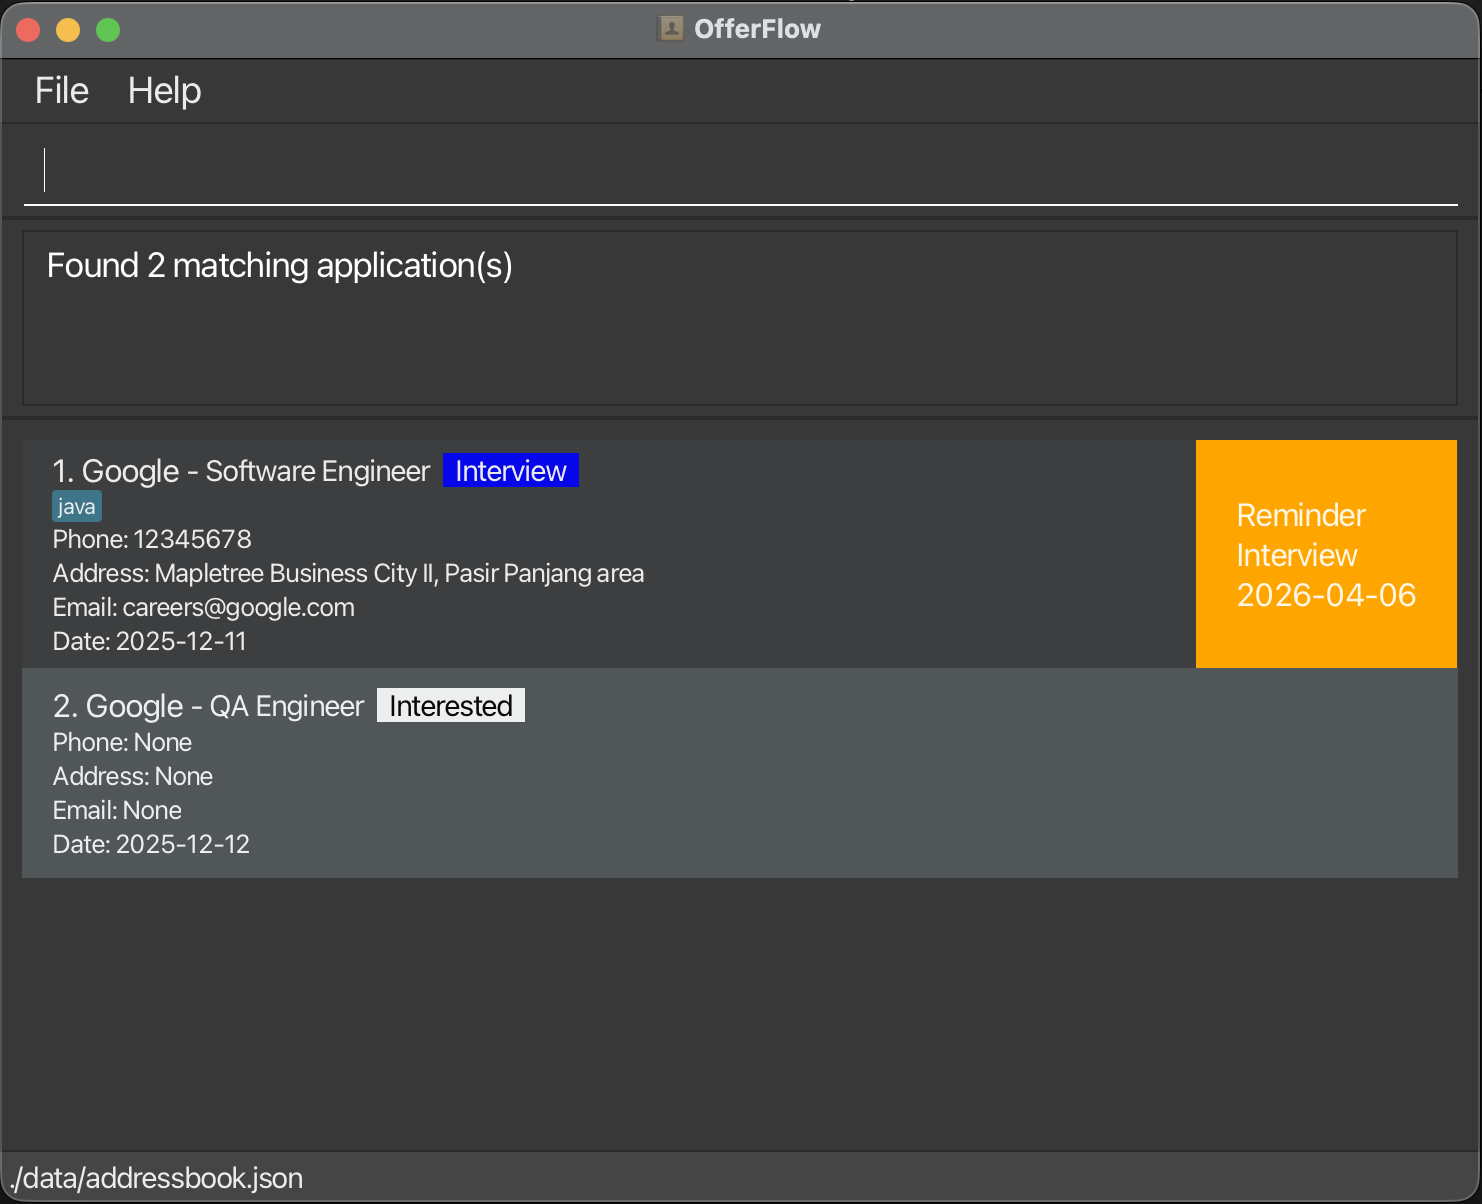
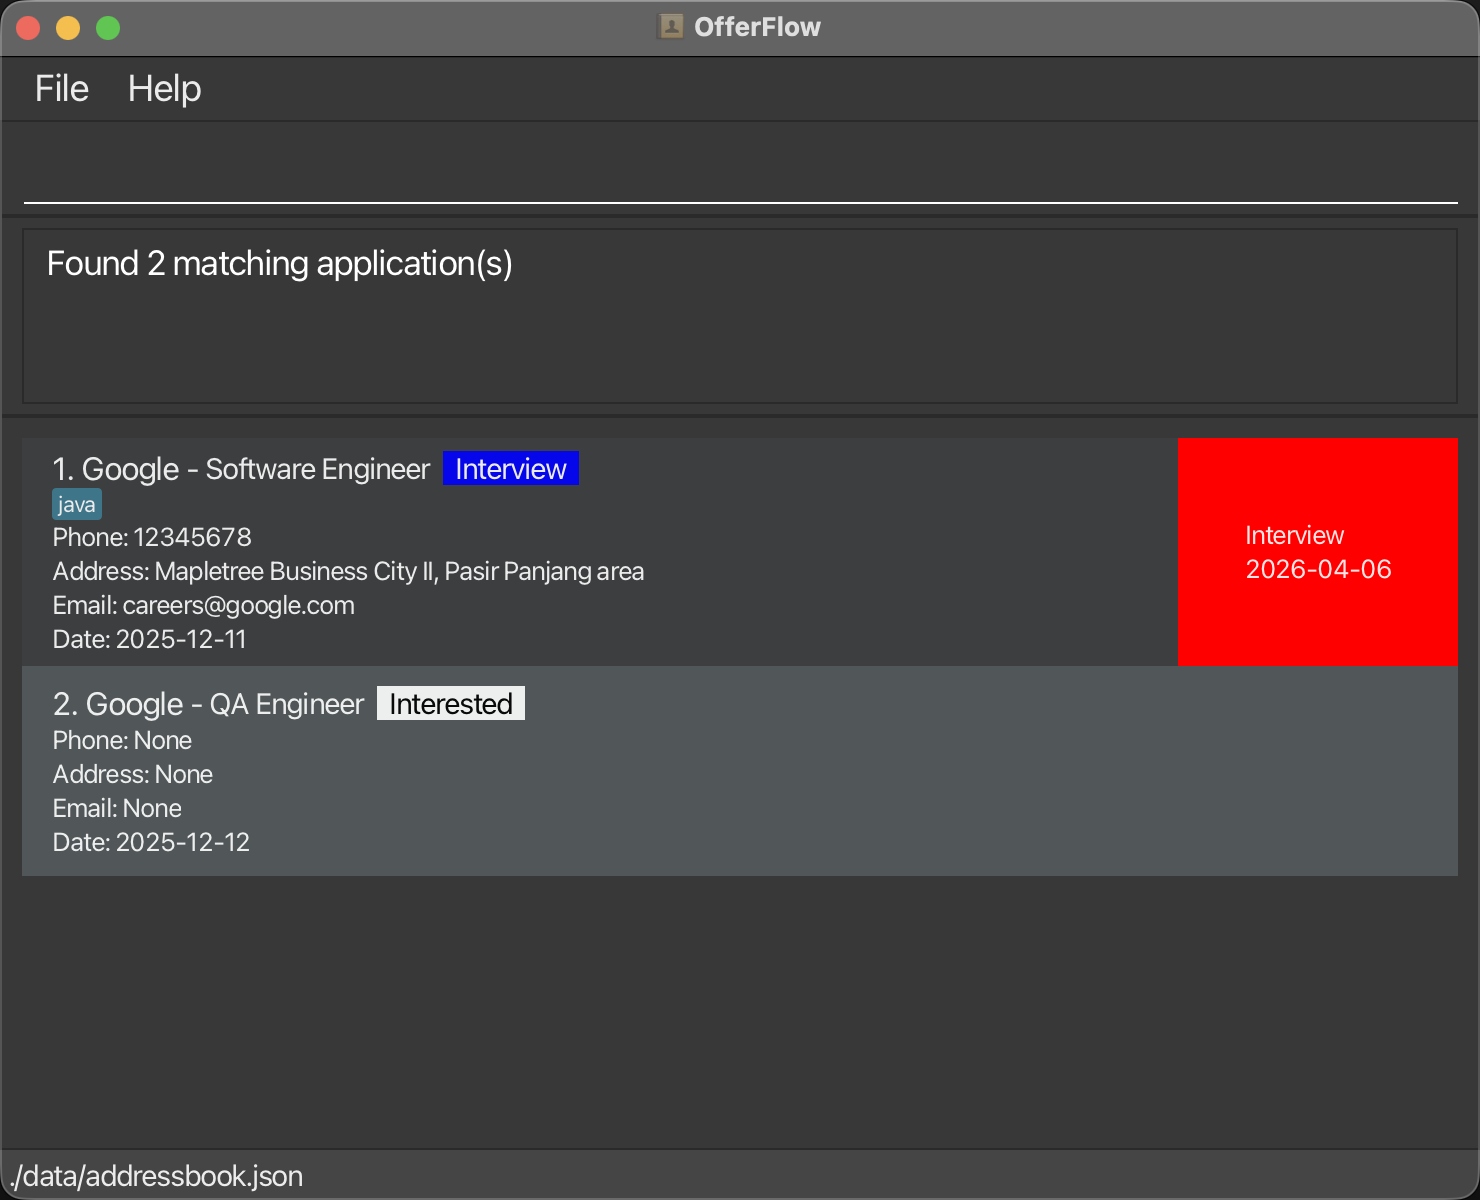
Update UG and pic

diff --git a/docs/UserGuide.md b/docs/UserGuide.md
@@ -25,7 +25,7 @@ If you can type fast, OfferFlow will manage your internship pipeline faster than
 
 ## Quick start
 
-1. Ensure you have Java `17` or above installed in your Computer.`<br>`
+1. Ensure you have Java `17` or above installed in your Computer.<br>
    **Mac users:** Ensure you have the precise JDK version prescribed [here](https://se-education.org/guides/tutorials/javaInstallationMac.html).
 
 1. Download the latest `.jar` file from [here](https://github.com/AY2526S2-CS2103T-F10-4/tp/releases).
@@ -36,7 +36,7 @@ If you can type fast, OfferFlow will manage your internship pipeline faster than
    A GUI similar to the below should appear in a few seconds. Note how the app contains some sample data.<br>
 
    ![Ui](images/Ui.png)
-5. Type the command in the command box and press Enter to execute it. e.g. typing **`help`** and pressing Enter will open the help window.`<br>`
+5. Type the command in the command box and press Enter to execute it. e.g. typing **`help`** and pressing Enter will open the help window.<br>
    Some example commands you can try:
 
    * `list` : Lists all internship applications.
@@ -52,20 +52,20 @@ If you can type fast, OfferFlow will manage your internship pipeline faster than
 
 <box type="info" seamless>
 
-**Notes about the command format:**`<br>`
+**Notes about the command format:**<br>
 
-* Words in `UPPER_CASE` are the parameters to be supplied by the user.`<br>`
+* Words in `UPPER_CASE` are the parameters to be supplied by the user.<br>
   e.g. in `add n/NAME`, `NAME` is a parameter which can be used as `add n/Google`.
-* Items in square brackets are optional.`<br>`
+* Items in square brackets are optional.<br>
   e.g `n/NAME [t/TAG]` can be used as `n/Google t/java` or as `n/Google`.
-* Items with `…` after them can be used multiple times including zero times.`<br>`
+* Items with `…` after them can be used multiple times including zero times.<br>
   e.g. `[t/TAG]…` can be used as ` ` (i.e. 0 times), `t/java`, `t/java t/React` etc.
-* Parameters can be in any order.`<br>`
+* Parameters can be in any order.`<br>
   e.g. if the command specifies `n/NAME p/PHONE_NUMBER`, `p/PHONE_NUMBER n/NAME` is also acceptable.
-* Extraneous parameters for commands that do not take in parameters (such as `help`, `list`, `exit`, `clear` and `overwrite`) will be ignored.`<br>`
+* Extraneous parameters for commands that do not take in parameters (such as `help`, `list`, `exit`, `clear` and `overwrite`) will be ignored.<br>
   e.g. if the command specifies `help 123`, it will be interpreted as `help`.
 * If you are using a PDF version of this document, be careful when copying and pasting commands that span multiple lines as space characters surrounding line-breaks may be omitted when copied over to the application.
-  `</box>`
+  </box>
 
 ### Viewing help : `help`
 
@@ -77,7 +77,7 @@ Format: `help`
 
 ### Application
 
-An internship application must include a company name and the role applied for. All other fields are optional.  
+An internship application must include a company name and the role applied for. All other fields are optional.
 Each application supports the following parameters:
 
 #### Parameters
@@ -98,14 +98,15 @@ Adds the internship application you have applied for, to help track all your app
 <box type="warning" seamless>
 
 **Caution:**
-OfferFlow does not allow duplicate application with same name and role. Hence, if you choose to add application with duplicate name and role, you can choose whether or not to [overwrite](#overwrite-duplicate-application--overwrite) it (ie: replace the pre-existing application with the new application)
+OfferFlow by default does not allow duplicate application with same name and role. Hence, if you choose to add application with duplicate name and role, you can choose whether or not to overwrite it (ie: replace the pre-existing application with the new application)
 </box>
 
 Format: `add n/NAME r/ROLE ...`
 
 <box type="tip" seamless>
 
-**Tip:** Application can be added with only name and role, other fields are optional
+**Tip:** Application can be added with only the `n/NAME` and `r/ROLE` fields, other fields are optional
+
 </box>
 
 Notes:
@@ -114,7 +115,7 @@ Notes:
 * Emails should be of the format `local-part@domain`
 * Applied dates must use `YYYY-MM-DD` and cannot be a future date
 * Reminder can only be added if both reminder name (`u/`) and reminder date (`ud/`) is provided
-* Only the `n/NAME` and `r/ROLE` fields are compulsory, other fields are optional
+* Reminder due today or earlier will be displayed in red, others will be displayed in orange
 
 #### Examples:
 * `add n/Meta r/ML engineer`
@@ -128,12 +129,6 @@ Notes:
 
 
 ### Overwrite duplicate application : `overwrite`
-
-<box type="warning" seamless>
-
-**Caution:**
-OfferFlow by default does not allow duplicate application with same name and role. Hence, if you choose to add application with duplicate name and role, you can choose whether or not to overwrite it (ie: replace the pre-existing application with the new application)
-</box>
 
 Overwrites pre-existing application in OfferFlow that has the same name and role, with the new application when you try to add an application with the same name and role as another already existing application
 
@@ -191,11 +186,7 @@ Notes:
 * `editmode 1` or `editmode n/Google r/Software Engineer`
 * `a/Mapletree Business City II, Pasir Panjang area t/java`
 * `d/2025-12-11`
-* `exitedit`
-
-⚠ Note:
-* Extraneous parameters/words will be ignored
-* eg: **edit 2** `n/Tiktok`
+* `editexit`
 
 #### Expected outcome:
 
@@ -207,10 +198,18 @@ Use `editmode` command to modify or create new Reminders.
 
 Format: `u/DESCRIPTION ud/DATE`
 
+#### Parameters
+- `u/DESCRIPTION` → name of the reminder
+- `ud/DATE` → deadline of the reminder
+
+⚠ Note:
+* both `u/DESCRIPTION ud/DATE` must be provided to modify/create reminders
+* reminder allows past dates as well
+
 #### Example:
 * `editmode 2`
 * `u/upcoming interview ud/2026-12-12`
-* `exitedit`
+* `editexit`
 
 #### expected outcome:
 
@@ -227,11 +226,11 @@ Format: `rmr INDEX` or `rmr n/NAME r/ROLE`
 * `n/NAME r/ROLE`: represents an Application to `NAME` for `ROLE`.
 
 #### Example:
-* `rmr 2` or `rmr n/Meta r/ML engineer`
+* `rmr 2` or `rmr n/Tiktok r/data analyst`
 
 #### expected outcome:
 
-  ![Remove](images/remove.png)
+  ![Remove](images/Remove.png)
 
 ### Updating application status: `status`
 
@@ -327,7 +326,7 @@ Format: `upcoming DAYS`
 
 #### Expected Outcome:
 
-  ![result for 'upcoming 3'](images/Upcoming.png)
+  ![result for 'upcoming 7'](images/Upcoming.png)
 
 
 ### Filtering applications: `filter`
@@ -348,7 +347,7 @@ Format:
 - `s/STATUS` → application progress
 - `t/TAG` → tag in the application
 
-Notes:
+⚠ Note:
 * Filter matching is case-insensitive.
 * Leading and trailing spaces are ignored.
 * Internal spacing still matters.
@@ -377,6 +376,7 @@ Format: `delete INDEX` or `delete n/NAME r/ROLE`
 
 #### Parameters
 - `INDEX` → the index number shown in the displayed application list
+
 <box type="warning" seamless>
 
 **Caution:**
@@ -391,14 +391,14 @@ application for Google as QA engineer
 
   ![Delete_ref](images/Delete_ref.png)
 
-### Creating a new address book : `folder`
+### Creating a new OfferFlow folder : `folder`
 
-Creates a new empty address book saved under `data/FOLDER_NAME.json` and switches to it.
+Creates a new empty OfferFlow folder saved under `data/FOLDER_NAME.json` and switches to it.
 
 Format: `folder FOLDER_NAME`
 
 #### Parameters
-- `FOLDER_NAME` → Name for the new address book (letters, numbers, underscores, and hyphens only)
+- `FOLDER_NAME` → Name for the new OfferFlow folder (letters, numbers, underscores, and hyphens only)
 
 <box type="warning" seamless>
 
@@ -409,27 +409,27 @@ Format: `folder FOLDER_NAME`
 </box>
 
 #### Examples
-* `folder Y1S2` creates and switches to a new address book at `data/Y1S2.json`
+* `folder Y1S2` creates and switches to the new OfferFlow folder at `data/Y1S2.json`
 * `folder internships-2025` creates and switches to `data/internships-2025.json`
 
 #### Expected Outcome:
-- A new empty address book is created and you are switched to it immediately.
+- A new empty OfferFlow folder is created and you are switched to it immediately.
 - The status bar at the bottom of the window updates to show the current file path (e.g. `./data/Y1S2.json`).
 
   ![folder](images/folder.png)
 
 
-### Switching to an existing address book : `toggle`
+### Switching to an existing OfferFlow folder : `toggle`
 
 ⚠ Note:
 The default folder is called `addressbook`
 
-Switches to an existing address book saved under `data/FOLDER_NAME.json`.
+Switches to an existing OfferFlow folder saved under `data/FOLDER_NAME.json`.
 
 Format: `toggle FOLDER_NAME`
 
 #### Parameters
-- `FOLDER_NAME` → Name of the existing address book to switch to
+- `FOLDER_NAME` → Name of the existing OfferFlow folder to switch to
 
 <box type="warning" seamless>
 
@@ -437,15 +437,16 @@ Format: `toggle FOLDER_NAME`
 - Folder name cannot be empty
 - Folder name cannot contain spaces or special characters
 - The address book file must already exist at `data/FOLDER_NAME.json`
+- Folder names are case insensitive
 </box>
 
 #### Examples
 * `toggle addressbook` switches to the default starting folder at `data/addressbook.json`
-* `toggle Y1S2` switches to the address book at `data/Y1S2.json`
+* `toggle Y1S2` switches to the OfferFlow folder at `data/Y1S2.json`
 * `toggle internships-2025` switches to `data/internships-2025.json`
 
 #### Expected Outcome:
-- You are switched to the specified address book and its applications are loaded.
+- You are switched to the OfferFlow folder and its applications are loaded if any.
 - The status bar at the bottom of the window updates to show the current file path (e.g. `./data/addressbook.json`).
 
   ![toggle](images/toggle.png)
@@ -453,13 +454,13 @@ Format: `toggle FOLDER_NAME`
 
 ### Listing all address books : `folders`
 
-Lists all existing address books saved in the `data` directory.
+Lists all existing OfferFlow folders saved in the `data` directory.
 
 Format: `folders`
 
 #### Expected Outcome:
-- All available address book names are displayed (one per line), sorted alphabetically.
-- If no address books exist yet, a message is shown indicating the data directory is empty.
+- All available OfferFlow folder names are displayed (one per line), sorted alphabetically.
+- By default, the OfferFlow folder named `addressbook` always exists
 
   ![folders](images/folders.png)
 
@@ -522,10 +523,10 @@ Furthermore, certain edits can cause OfferFlow to behave in unexpected ways (e.g
 | **Overwrite** | `overwrite` | `overwrite` |
 | **Clear** | `clear` | `clear` |
 | **Delete** | `delete INDEX` or `delete n/NAME r/ROLE` | `delete 3` or `delete n/Google r/Backend Developer` |
-| **Edit** | `editmode INDEX` or `editmode n/NAME r/ROLE` | `editmode 1` then `a/Mapletree Business City II, Pasir Panjang area` then `exitedit`  |
+| **Edit** | `editmode INDEX` or `editmode n/NAME r/ROLE` | `editmode 1` then `a/Mapletree Business City II, Pasir Panjang area` then `editexit`  |
 | **Status** | `status n/COMPANY r/ROLE s/STATUS` | `status n/Tiktok r/Data Analyst s/Rejected` |
 | **Find** | `find KEYWORD [MORE_KEYWORDS]` | `find James Jake` |
-| **Filter** | `filter n/NAME` or `filter d/YYYY-MM-DD` or `filter s/STATUS` or `filter t/TAG` | `filter n/Tiktok` or `filter d/2024-06-18` or `filter s/Rejected` or `filter t/java` |
+| **Filter** | `filter n/NAME` or `filter r/ROLE` or `filter d/YYYY-MM-DD` or `filter s/STATUS` or `filter t/TAG` | `filter n/Tiktok` or `filter r/Software Engineer` or `filter d/2024-06-18` or `filter s/Rejected` or `filter t/java` |
 | **Folder** | `folder FOLDER_NAME` | `folder Y1S2` |
 | **Toggle** | `toggle FOLDER_NAME` | `toggle Y1S2` |
 | **List Folders** | `folders` | `folders` |
